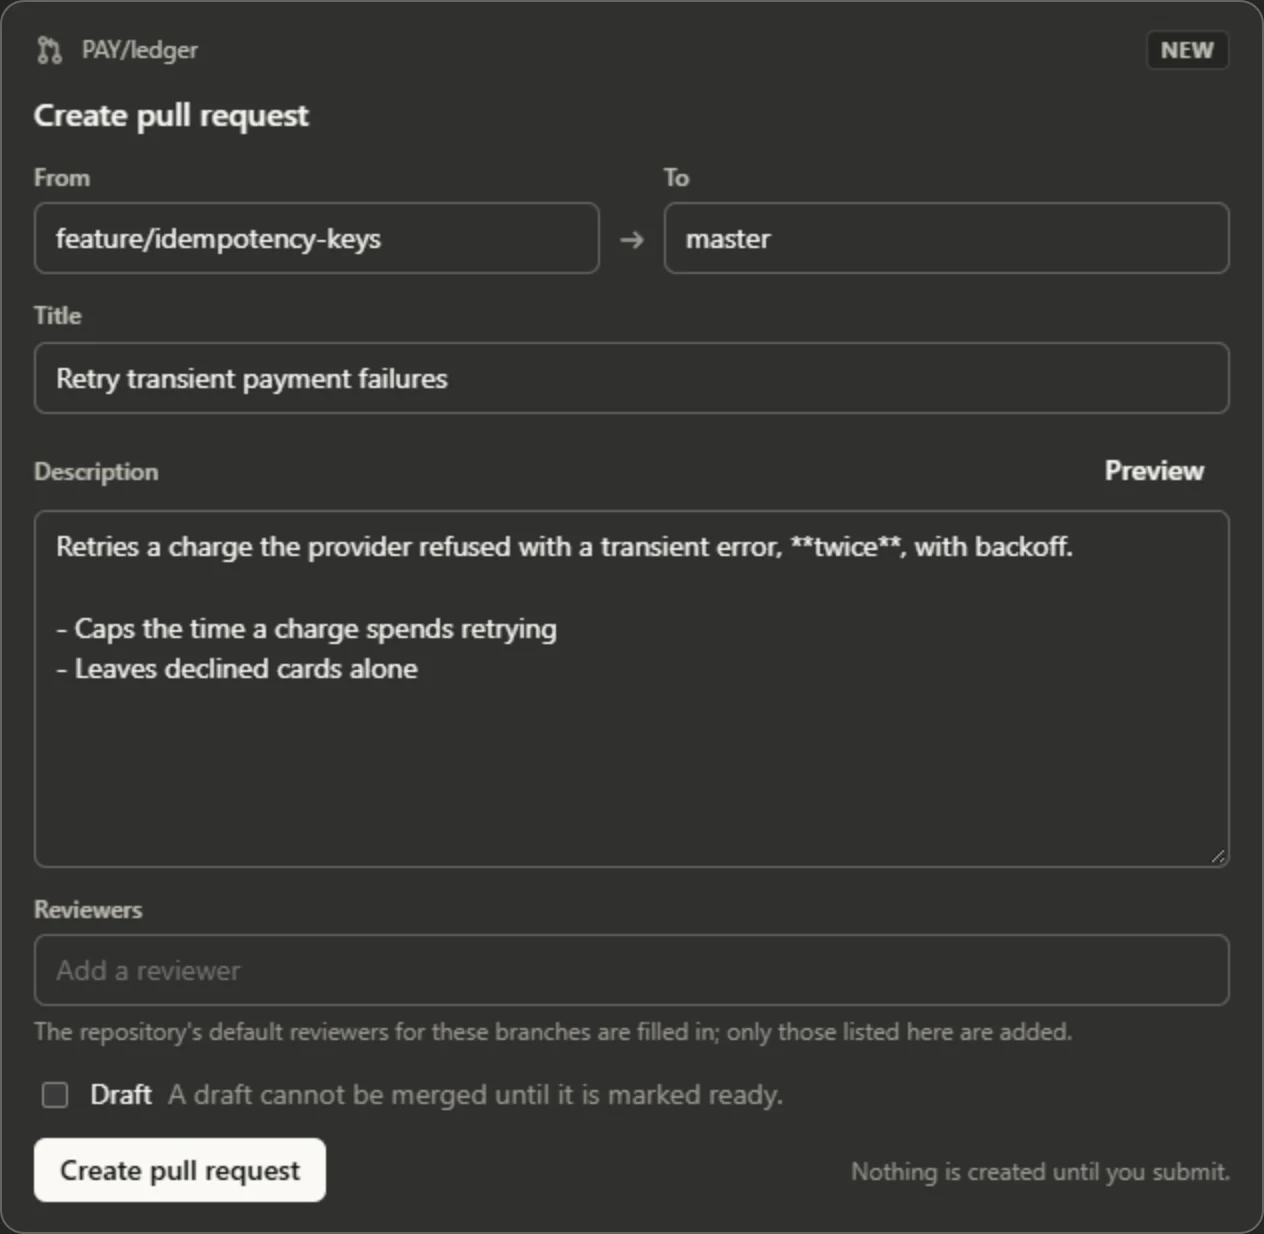
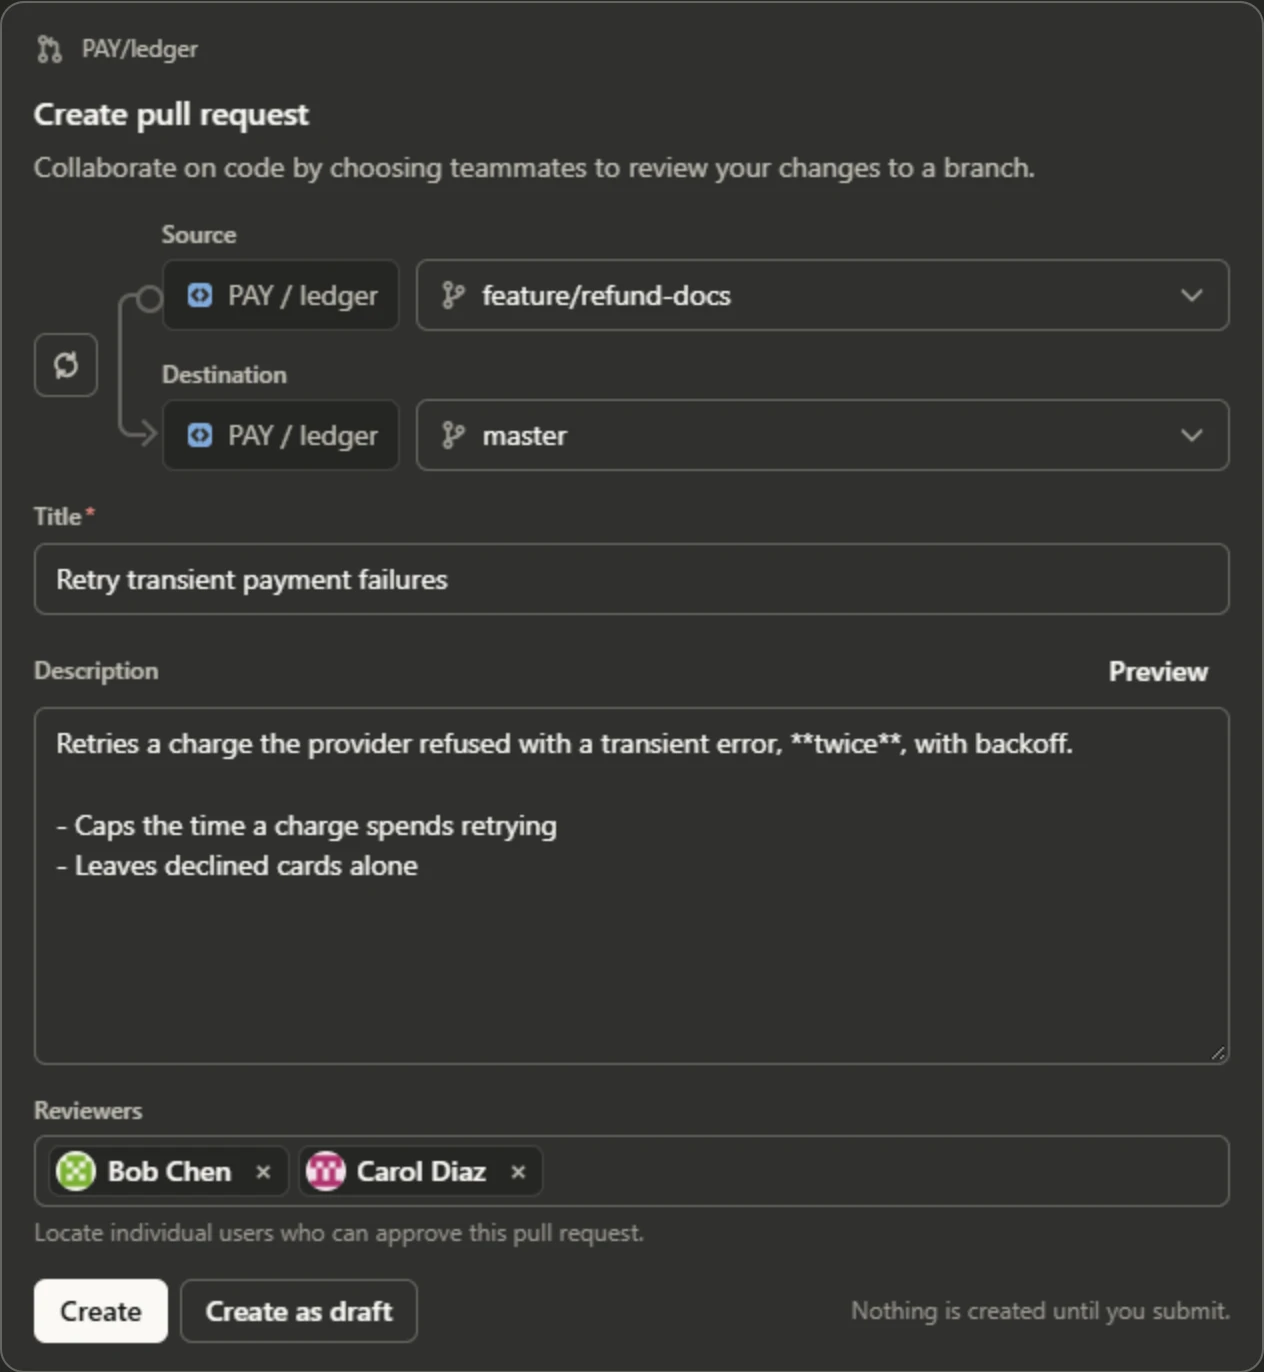
docs(mcp): describe the form as Bitbucket's create page
The guide says the form picks branches from the repository's, swaps
them, and fills in the default reviewers and code owners as Bitbucket's
create page does, offering them back when removed, with Create and
Create as draft; its screenshots show it. The release note says so,
the hardening guide says the form asks suggest_form_values as branches
are picked too, and the tool reference names its new fields.

diff --git a/docs/release-notes/v5.0.0.md b/docs/release-notes/v5.0.0.md
@@ -97,7 +97,7 @@ If you consume `bb` inside CI/CD pipelines, shell scripts, or AI agent toolchain
 
    In clients that render MCP Apps, such as Claude Desktop, VS Code and Goose, the AI can now put what it found in front of you instead of describing it: a pull request with its reviewers' avatars and decisions, its builds and the ones its target branch requires, open tasks, its formatted description and its activity, comments included; a list of pull requests; or its diff, a file at a time, highlighted, with each comment on its line. It looks and reads like Bitbucket, and anything you click opens there.
 
-   Ask for PAYMENTS/ledger#42 and the answer comes with its card; open the card for the full overview and its activity, or its diff. In the diff, select lines to add them to the chat, to ask about them or to comment on them; reply to a comment, and approve or request changes, without leaving the conversation. Ask the AI to open a pull request and it can hand you its draft as a form to finish and submit. A view carries what it shows, so it still renders when you come back to the conversation, even without bb running, and it says when it was read. While it is on screen it keeps itself current: watch a build finish or a comment arrive without asking again, and the AI is told what changed. Terminal agents such as Claude Code show the usual text.
+   Ask for PAYMENTS/ledger#42 and the answer comes with its card; open the card for the full overview and its activity, or its diff. In the diff, select lines to add them to the chat, to ask about them or to comment on them; reply to a comment, and approve or request changes, without leaving the conversation. Ask the AI to open a pull request and it can hand you its draft as a form to finish and submit, with the default reviewers and code owners filled in as Bitbucket's create page does. A view carries what it shows, so it still renders when you come back to the conversation, even without bb running, and it says when it was read. While it is on screen it keeps itself current: watch a build finish or a comment arrive without asking again, and the AI is told what changed. Terminal agents such as Claude Code show the usual text.
 
    * For administrators: a view has no network access; bb fetches the avatars with its own credentials and puts them in the result. `--exclude show` turns views off. A view keeps current by calling `refresh_view`, and the form suggests values through `suggest_form_values`: read-only tools only views are offered, each call recorded in the audit log like any other; `--exclude refresh_view` keeps views as they were drawn. What you do in a view goes through the AI's own tools, with their confirmations. Of Svelte, ERB, PHTML, Go HTML and Jinja templates only the markup is highlighted; `--highlight-templates` highlights the code in them too, with lexers a crafted file can keep busy for seconds, though no view waits for them.
 

diff --git a/docs/site/reference/mcp-tools.md b/docs/site/reference/mcp-tools.md
@@ -40,7 +40,7 @@ The [MCP server guide](../ai-and-llms.md#the-mcp-server) wires it into a client,
 | `set_build_status` | writes | always | Report a build/CI status for a commit back to Bitbucket. Use this when running CI pipelines that should surface results in PR views. Asks the person to confirm in the client before it runs. |
 | `show` | read-only | never | Show the person a pull request, a list of pull requests or a pull request's diff as an interactive view, in clients that display MCP Apps views, or a pull request form for them to finish and submit. Call it once, after you have what you need and before your answer, for what the person should see; use the other tools to find it. Kinds pull_request and diff take project, repo and id; a pull request's overview has its comments and activity, and its diff the comments on its lines. Kind pull_requests takes the filters list_pull_requests takes. Kind pull_request_form takes project, repo, from_ref and what you drafted (title, description, to_ref, reviewers, draft), or an id to edit that pull request; nothing is created or changed until the person submits it. A diff is for changes the person cannot open in their own editor, such as another repository's. In a client that displays no views, it shows nothing and says so. |
 | `submit_pr_review` | writes | always | Set review status on a pull request: approve, unapprove, or request changes (needs_work). Asks the person to confirm in the client before it runs. |
-| `suggest_form_values` | read-only | never | Called by bb's pull request form, not by the model: suggests the repository's branches, or the people who can read it as reviewers, matching what the person typed. |
+| `suggest_form_values` | read-only | never | Called by bb's pull request form, not by the model: suggests the repository's branches, or the people who can read it as reviewers, matching what the person typed, and names the default reviewers and code owners for the branches they picked. |
 | `update_pull_request` | writes | when-setting-draft | Update a pull request's title, description, or draft state. Use draft=false to mark a draft pull request ready for review. Requires the current version from get_pull_request for optimistic locking; a stale version is rejected rather than overwriting someone else's edit. Setting draft asks the person to confirm in the client first. |
 
 ## Tools that ask

diff --git a/docs/site/ai-and-llms.md b/docs/site/ai-and-llms.md
@@ -103,13 +103,16 @@ A file too large to carry is named, with a link to its diff in Bitbucket.
 ![A pull request's diff: the file tree with each file's open comments counted, beside one file's highlighted changes, a task on the line it was written on and a resolved thread folded to a line](assets/views/diff-dark.webp#only-dark)
 
 Ask for a pull request to be opened, and the agent can hand you its draft as a
-form: the branches, the title and description it wrote, the reviewers it
-suggests. Edit what you like, with branches and reviewers completed as you
-type, and create it; nothing is created until you do. An existing pull
-request's title, description and draft state are edited the same way.
+form that works like Bitbucket's create page: the branches, picked from the
+repository's and swapped with one click; the title and description it wrote;
+the reviewers it suggests, with the default reviewers and code owners filled in
+as Bitbucket fills them in, and offered back if you remove them. Find more
+reviewers by name, and create it, or create it as a draft; nothing is created
+until you do. An existing pull request's title, description and draft state are
+edited the same way.
 
-![A pull request form: the source and target branches, the title and the description the agent drafted, a reviewer field, the draft box, and Create pull request](assets/views/form-light.webp#only-light)
-![A pull request form: the source and target branches, the title and the description the agent drafted, a reviewer field, the draft box, and Create pull request](assets/views/form-dark.webp#only-dark)
+![A pull request form: the source and destination branches with a swap button, the title and the description the agent drafted, two reviewers with their avatars, and Create and Create as draft](assets/views/form-light.webp#only-light)
+![A pull request form: the source and destination branches with a swap button, the title and the description the agent drafted, two reviewers with their avatars, and Create and Create as draft](assets/views/form-dark.webp#only-dark)
 
 - A view carries what it draws. It renders again when you come back to the
   conversation, even without bb running, and it says when it was read.

diff --git a/docs/site/advanced/enterprise-hardening.md b/docs/site/advanced/enterprise-hardening.md
@@ -490,7 +490,7 @@ bb ai mcp serve --host https://bitbucket.example.com --project PAYMENTS --audit-
 
 `status` is `success`, `error`, or `denied`. A tool that asks adds `confirmation`: `accepted`, `declined`, `cancelled`, or `unavailable` when the client could not show the confirmation. A call the confirmation stops is also `denied`, including one whose answer the server cannot use, which records no `confirmation`. One decision is one record, however many round trips the client needed:
 
-A view the agent put in front of the person keeps itself current while it is on screen by calling `refresh_view`, every 15 seconds while a build runs and less often the longer nothing changes, and the pull request form calls `suggest_form_values` as the person types. Both read only, and each call is a record like any other; `--exclude refresh_view` keeps views as they were drawn. What the person does in a view, a comment, a review or a pull request, is a call of the model's own tool, `add_pr_comment`, `submit_pr_review`, `create_pull_request` or `update_pull_request`, recorded and confirmed as any call of it is.
+A view the agent put in front of the person keeps itself current while it is on screen by calling `refresh_view`, every 15 seconds while a build runs and less often the longer nothing changes, and the pull request form calls `suggest_form_values` as the person types and picks branches. Both read only, and each call is a record like any other; `--exclude refresh_view` keeps views as they were drawn. What the person does in a view, a comment, a review or a pull request, is a call of the model's own tool, `add_pr_comment`, `submit_pr_review`, `create_pull_request` or `update_pull_request`, recorded and confirmed as any call of it is.
 
 Resource reads, the resource list and prompts are recorded too, as `mcp_resource_read`, `mcp_resource_list` and `mcp_prompt_get`, with `resource` or `prompt` in place of `tool`. Completions, which a client sends as the person types, are not:
 
